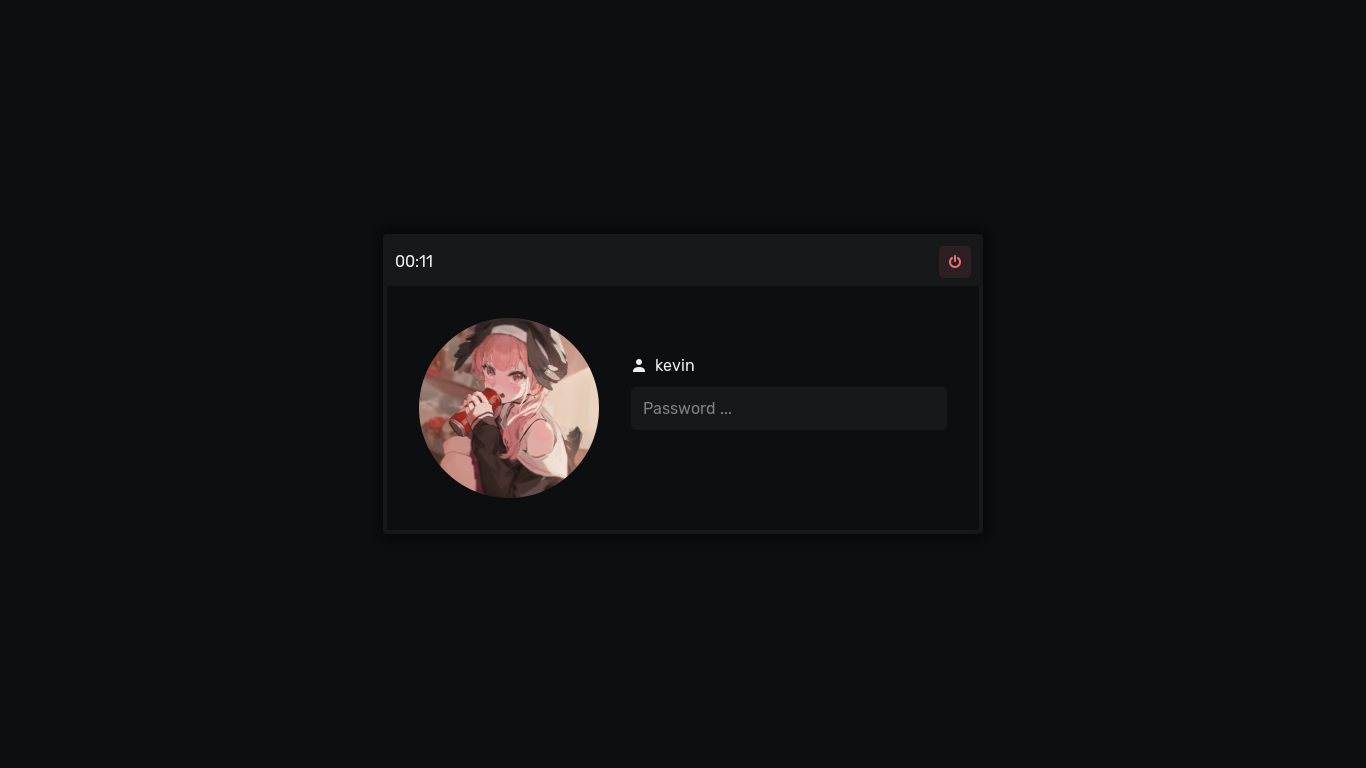
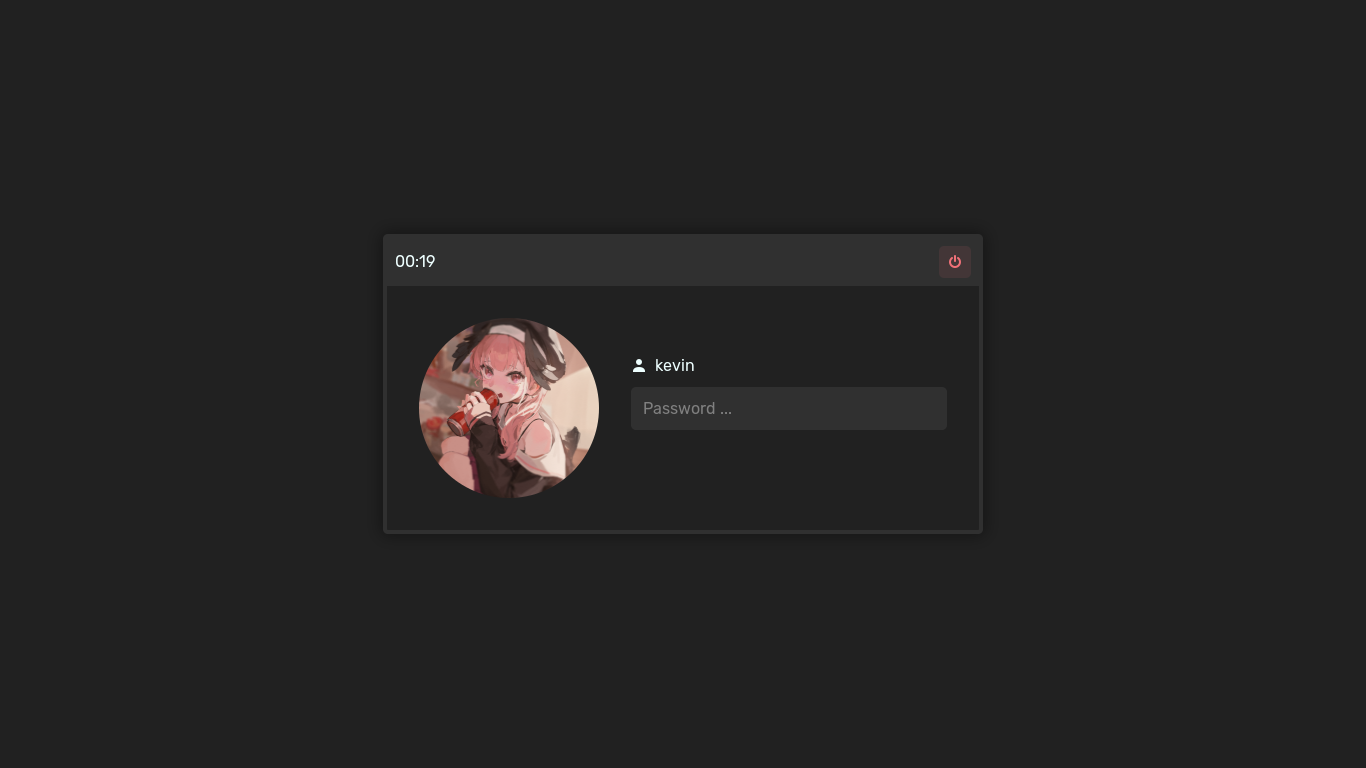
stuff
wallpaper, README, bar bugfix, etc.

diff --git a/ags/scss/bar.scss b/ags/scss/bar.scss
@@ -59,6 +59,7 @@
     }
 
     &.active {
+      color: $base05;
       background: $base01;
     }
 

diff --git a/README.md b/README.md
@@ -9,7 +9,6 @@
 
 - These are personal configurations.
 - I have no idea what I'm doing, so exercise caution when taking stuff lol.
-- Only give 100% effort when they deserve it.
 
 ## Acknowledgements
 

diff --git a/wallpapers/README.md b/wallpapers/README.md
@@ -8,3 +8,4 @@
 - https://wallhaven.cc/w/6km68w
 - https://wallhaven.cc/w/4oem1l
 - https://x.com/nanmokaken/status/1316817301736308736
+- https://wallhaven.cc/w/6o9g8l
